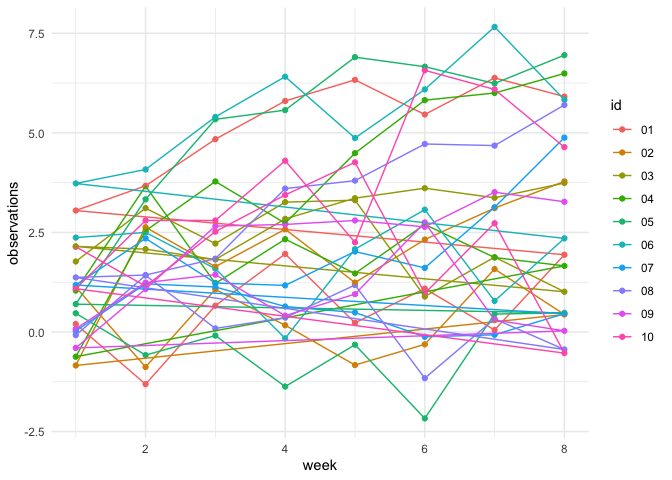
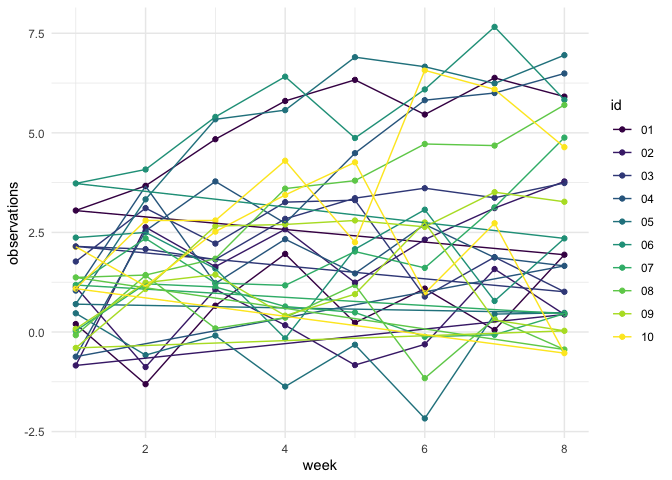
problem 3 graphs

diff --git a/p8105_hw5_ll3344.md b/p8105_hw5_ll3344.md
@@ -23,17 +23,37 @@ library(tidyverse)
     ## x dplyr::lag()    masks stats::lag()
 
 ``` r
+library(viridis)
+```
+
+    ## Loading required package: viridisLite
+
+``` r
+library(plotly)
+```
+
+    ## 
+    ## Attaching package: 'plotly'
+
+    ## The following object is masked from 'package:ggplot2':
+    ## 
+    ##     last_plot
+
+    ## The following object is masked from 'package:stats':
+    ## 
+    ##     filter
+
+    ## The following object is masked from 'package:graphics':
+    ## 
+    ##     layout
+
+``` r
+library(patchwork)
+```
+
+``` r
 # Minimalist theme
 theme_set(theme_minimal())
-
-# Viridis color scheme for best visualization and color separation
-options(
-  ggplot2.continuous.color = "viridis",
-  ggplot2.continuous.fill = "viridis"
-)
-
-scale_color_discrete = scale_color_viridis_d
-scale_fill_discrete = scale_fill_viridis_d
 ```
 
 Read in the data.
@@ -384,7 +404,115 @@ lga_df %>%
   group_by(id) %>%
   ggplot(aes(x = week, y = observations, color = id, group = id)) +
   geom_point() +
-  geom_path() 
+  geom_path() +
+  scale_colour_viridis_d()
 ```
 
 ![](p8105_hw5_ll3344_files/figure-gfm/unnamed-chunk-9-1.png)<!-- -->
+
+``` r
+lga_df %>%
+  mutate(text_label = str_c("Study ID: ", id, "\nGroup:", group)) %>%
+  plot_ly(
+    x = ~week, y = ~observations, color = ~id,
+    colors = "viridis", type = "scatter",
+    mode = "line", text = ~text_label
+  )
+```
+
+    ## Warning: `arrange_()` is deprecated as of dplyr 0.7.0.
+    ## Please use `arrange()` instead.
+    ## See vignette('programming') for more help
+    ## This warning is displayed once every 8 hours.
+    ## Call `lifecycle::last_warnings()` to see where this warning was generated.
+
+![](p8105_hw5_ll3344_files/figure-gfm/unnamed-chunk-9-2.png)<!-- -->
+
+In general, the experimental arm has higher values for the observations.
+
+## Problem 3
+
+``` r
+set.seed(1)
+
+sim_mean_p = function(n = 30, mean, sd = 5) {
+  
+  sim_data = tibble(
+    x = rnorm(n = n, mean, sd = sd),
+  ) %>%
+    t.test() %>%
+    broom::tidy() %>%
+    select(estimate, p.value) %>%
+    rename(sample_mean = estimate)
+}
+
+sim_results = 
+  rerun(5000, sim_mean_p(mean = 0)) %>%
+  bind_rows()
+```
+
+``` r
+mean_list = 
+  list(
+    "mean_1" = 1,
+    "mean_2" = 2,
+    "mean_3" = 3,
+    "mean_4" = 4,
+    "mean_5" = 5,
+    "mean_6" = 6
+  )
+
+sim_vary_means = 
+  tibble(diff_means = c(1, 2, 3, 4, 5, 6)) %>%
+  mutate(
+    output_lists = map(.x = diff_means, ~rerun(5000, sim_mean_p(mean = .x))),
+    estimate_dfs = map(output_lists, bind_rows)) %>%
+      select(-output_lists) %>%
+      unnest(estimate_dfs)
+```
+
+``` r
+sim_vary_means %>%
+  filter(p.value < 0.05) %>%
+  group_by(diff_means) %>%
+  count() %>%
+  mutate(prop = n/5000) %>%
+  ggplot(aes(x = diff_means, y = prop)) +
+  geom_line() +
+  geom_point()
+```
+
+![](p8105_hw5_ll3344_files/figure-gfm/unnamed-chunk-12-1.png)<!-- -->
+
+``` r
+all_means_p = 
+  sim_vary_means %>%
+  mutate(
+    diff_means = str_c("mean = ", diff_means)
+  ) %>%
+  ggplot(aes(x = diff_means, y = sample_mean, fill = diff_means)) +
+  geom_violin(alpha = .5) +
+  xlab("True Means") + 
+  ylab("Sample Means") +
+  theme(legend.position = "none") + 
+  ggtitle("All Means") +
+  theme(plot.title = element_text(hjust = 0.5))
+
+rejected_means_p =
+  sim_vary_means %>%
+  mutate(
+    diff_means = str_c("mean = ", diff_means)
+  ) %>%
+  filter(p.value < 0.05) %>%
+  ggplot(aes(x = diff_means, y = sample_mean, fill = diff_means)) +
+  geom_violin(alpha = .5) + 
+  xlab("True Means") + 
+  ylab("Sample Means") +
+  theme(legend.position = "none") + 
+  ggtitle("Rejected Means") +
+  theme(plot.title = element_text(hjust = 0.5))
+
+all_means_p + rejected_means_p
+```
+
+![](p8105_hw5_ll3344_files/figure-gfm/unnamed-chunk-13-1.png)<!-- -->
